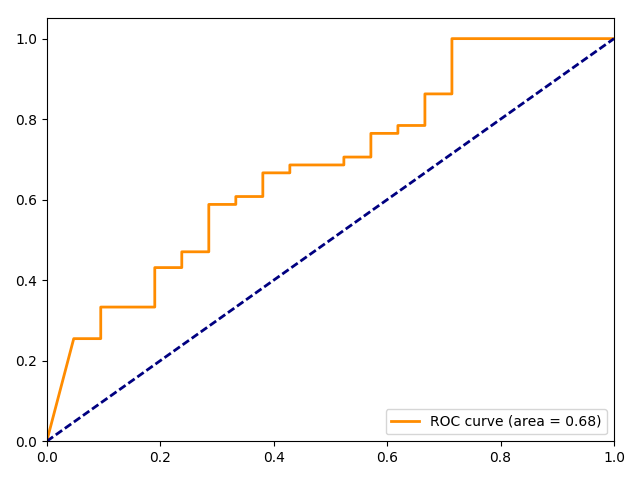
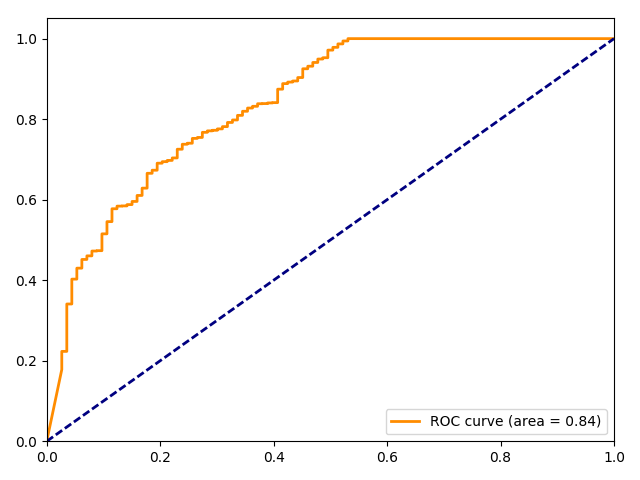
report summary and plots

diff --git a/report/report.tex b/report/report.tex
@@ -122,24 +122,20 @@ Dla każdego z współczynników: $\alpha = 0, \frac{\pi}{36}, \frac{2\pi}{36},.
 
 \subsection{Porównanie jasności punktów}
 \subsubsection{Ekstrakcja}
-Metoda opiera się na algorytmie BRIEF z modyfikacjami. Przy inicjacji algorytmu jest losowancyh 512 punktów należących do okręgu o wielkości rozważanego deskryptora z jednostajnym prawdopodobieństwem.
+Metoda opiera się na algorytmie BRIEF z modyfikacjami. Przy inicjacji algorytmu jest losowanych 512 punktów należących do okręgu o wielkości rozważanego deskryptora z jednostajnym prawdopodobieństwem.
 
-\includegraphics[width=0.7\textwidth]{./img/points.png}
+%\includegraphics[width=0.7\textwidth]{./img/points.png}
 
 Dla otoczenia punktu jest obliczany kąt oraz długość gradientu dla każdego z piksela. Używany jest do tego pionowy i poziomy filtr Sobela -- $g_x$ oraz $g_y$, a następnie gradient jest obliczany ze wzoru:
 
 $$ g = \sqrt{g_x^2 + g_y^2}$$
 $$ \theta =arctan \frac{g_y}{g_x}$$
 
-Z wyliczonych wartości jest obliczany dominujący gradient z kątów $\theta$ przy pomocy średniej wazonej z wagami $g$. Nastepnie obraz jest obracany wg tego gradientu. W kolejnymkorku są porównywane jasności punktów parami. Jeżeli jasność pierwszegopunktu jest większa niż drugiego to do deskryptora jest zapisywana wartość 1, 0 w przeciwnym przypadku. Lista 0 i 1 tworzy deskryptor.
+Z wyliczonych wartości jest obliczany dominujący gradient z kątów $\theta$ przy pomocy średniej ważonej z wagami $g$. Następnie obraz jest obracany wg tego gradientu. W kolejnym kroku są porównywane jasności punktów parami. Jeżeli jasność pierwszego punktu jest większa niż drugiego to do deskryptora jest zapisywana wartość 1, 0 w przeciwnym przypadku. Lista 0 i 1 tworzy deskryptor.
 
-\section{Porównanie}
-
-Porównanie deskryptorówpolega na obliczenieniu ich odległości Hamminga.
 
 \subsection{Porównanie}
-Porównywanie obrazów odbywa się przy pomocy odległości Hamminga.
-
+Porównywanie deskryptorów odbywa się przy pomocy odległości Hamminga.
 
 \subsubsection{Wynik działania}
 
@@ -159,5 +155,17 @@ Aby móc dobrze ocenić działanie deskryptora zostały napisane dwa skrypty umo
 \item powiększeniu,
 \item kompresji jpg.
 \end{enumerate}
+
+\section{Podsumowanie}
+Zostały przetestowane również deskryptory, które łączyły ze sobą różne metody.
+Najlepszym połączeniem okazało się być połączenie: średniej jasności otoczenia i porównania jasności punktów.
+Jako zwracaną odległość ustalono średnią arytmetyczną z wartości zwracanych przez funkcje porównujące powyższe deskryptory.
+
+\begin{figure}[H]
+\begin{center}
+\includegraphics[width=0.7\textwidth]{./img/average_and_brief.png}
+\end{center}
+\caption{Wynik działania deskryptora, AUC.}
+\end{figure}
 
 \end{document}  
